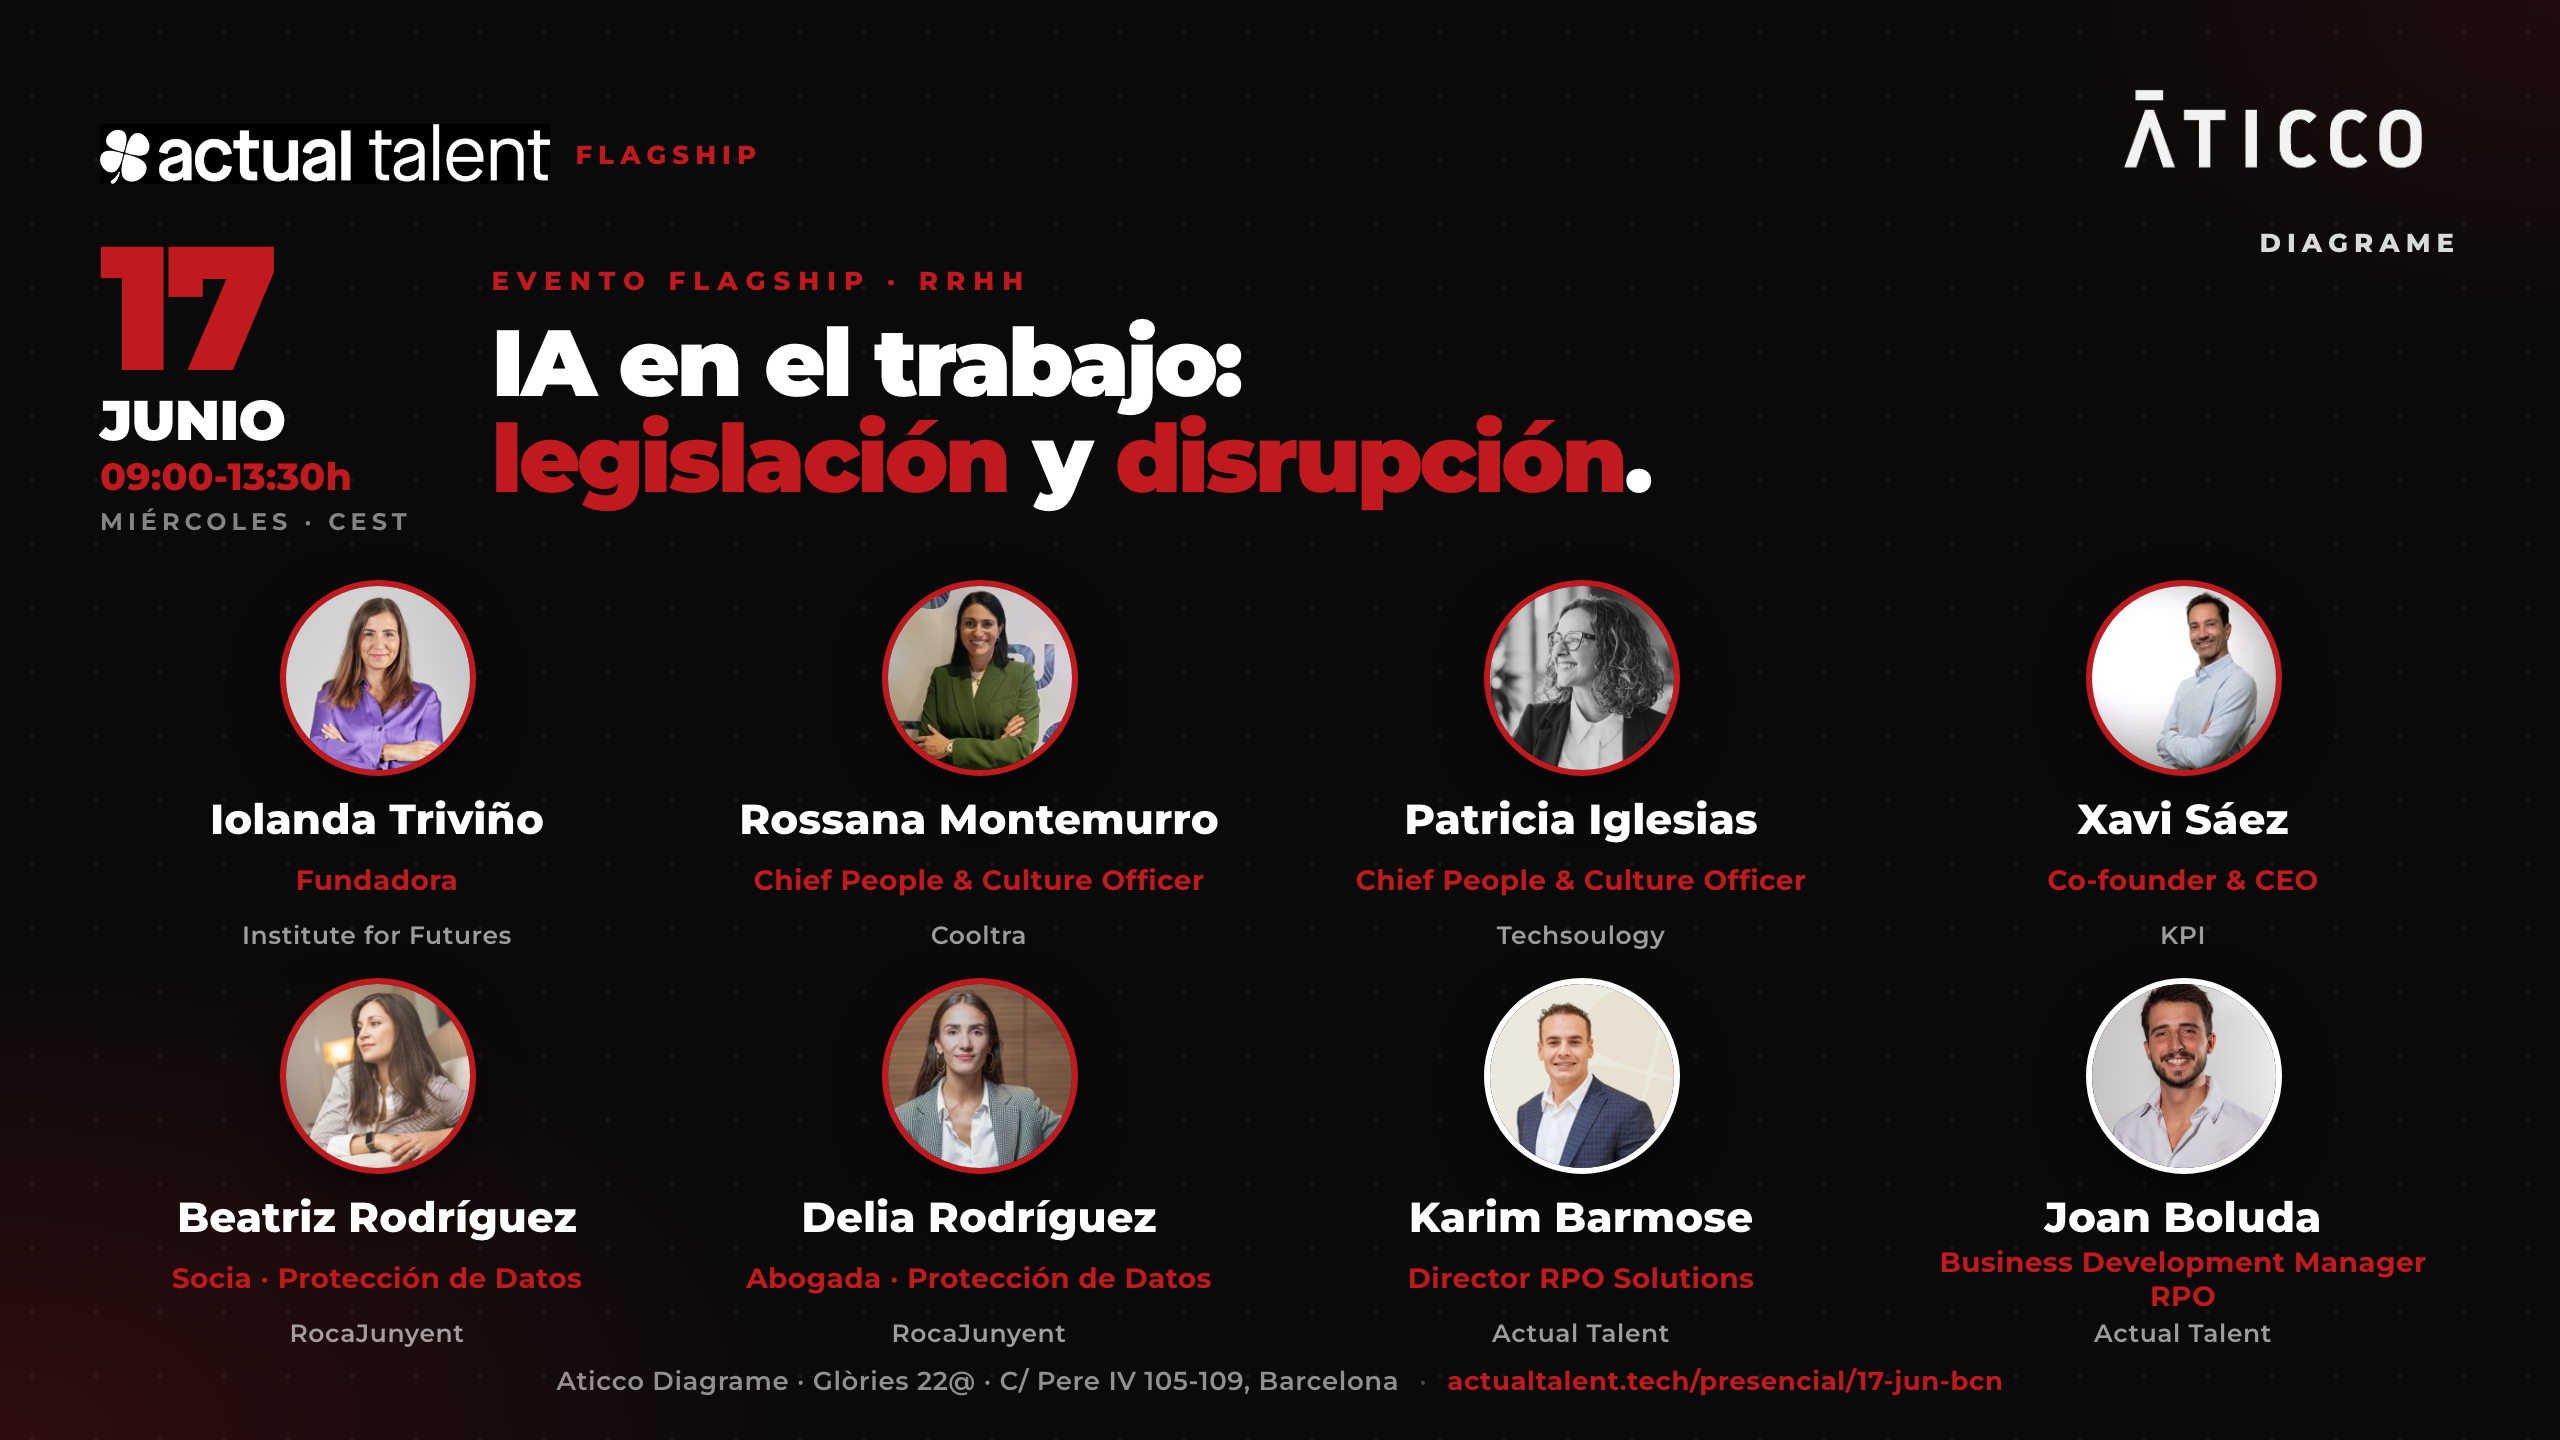
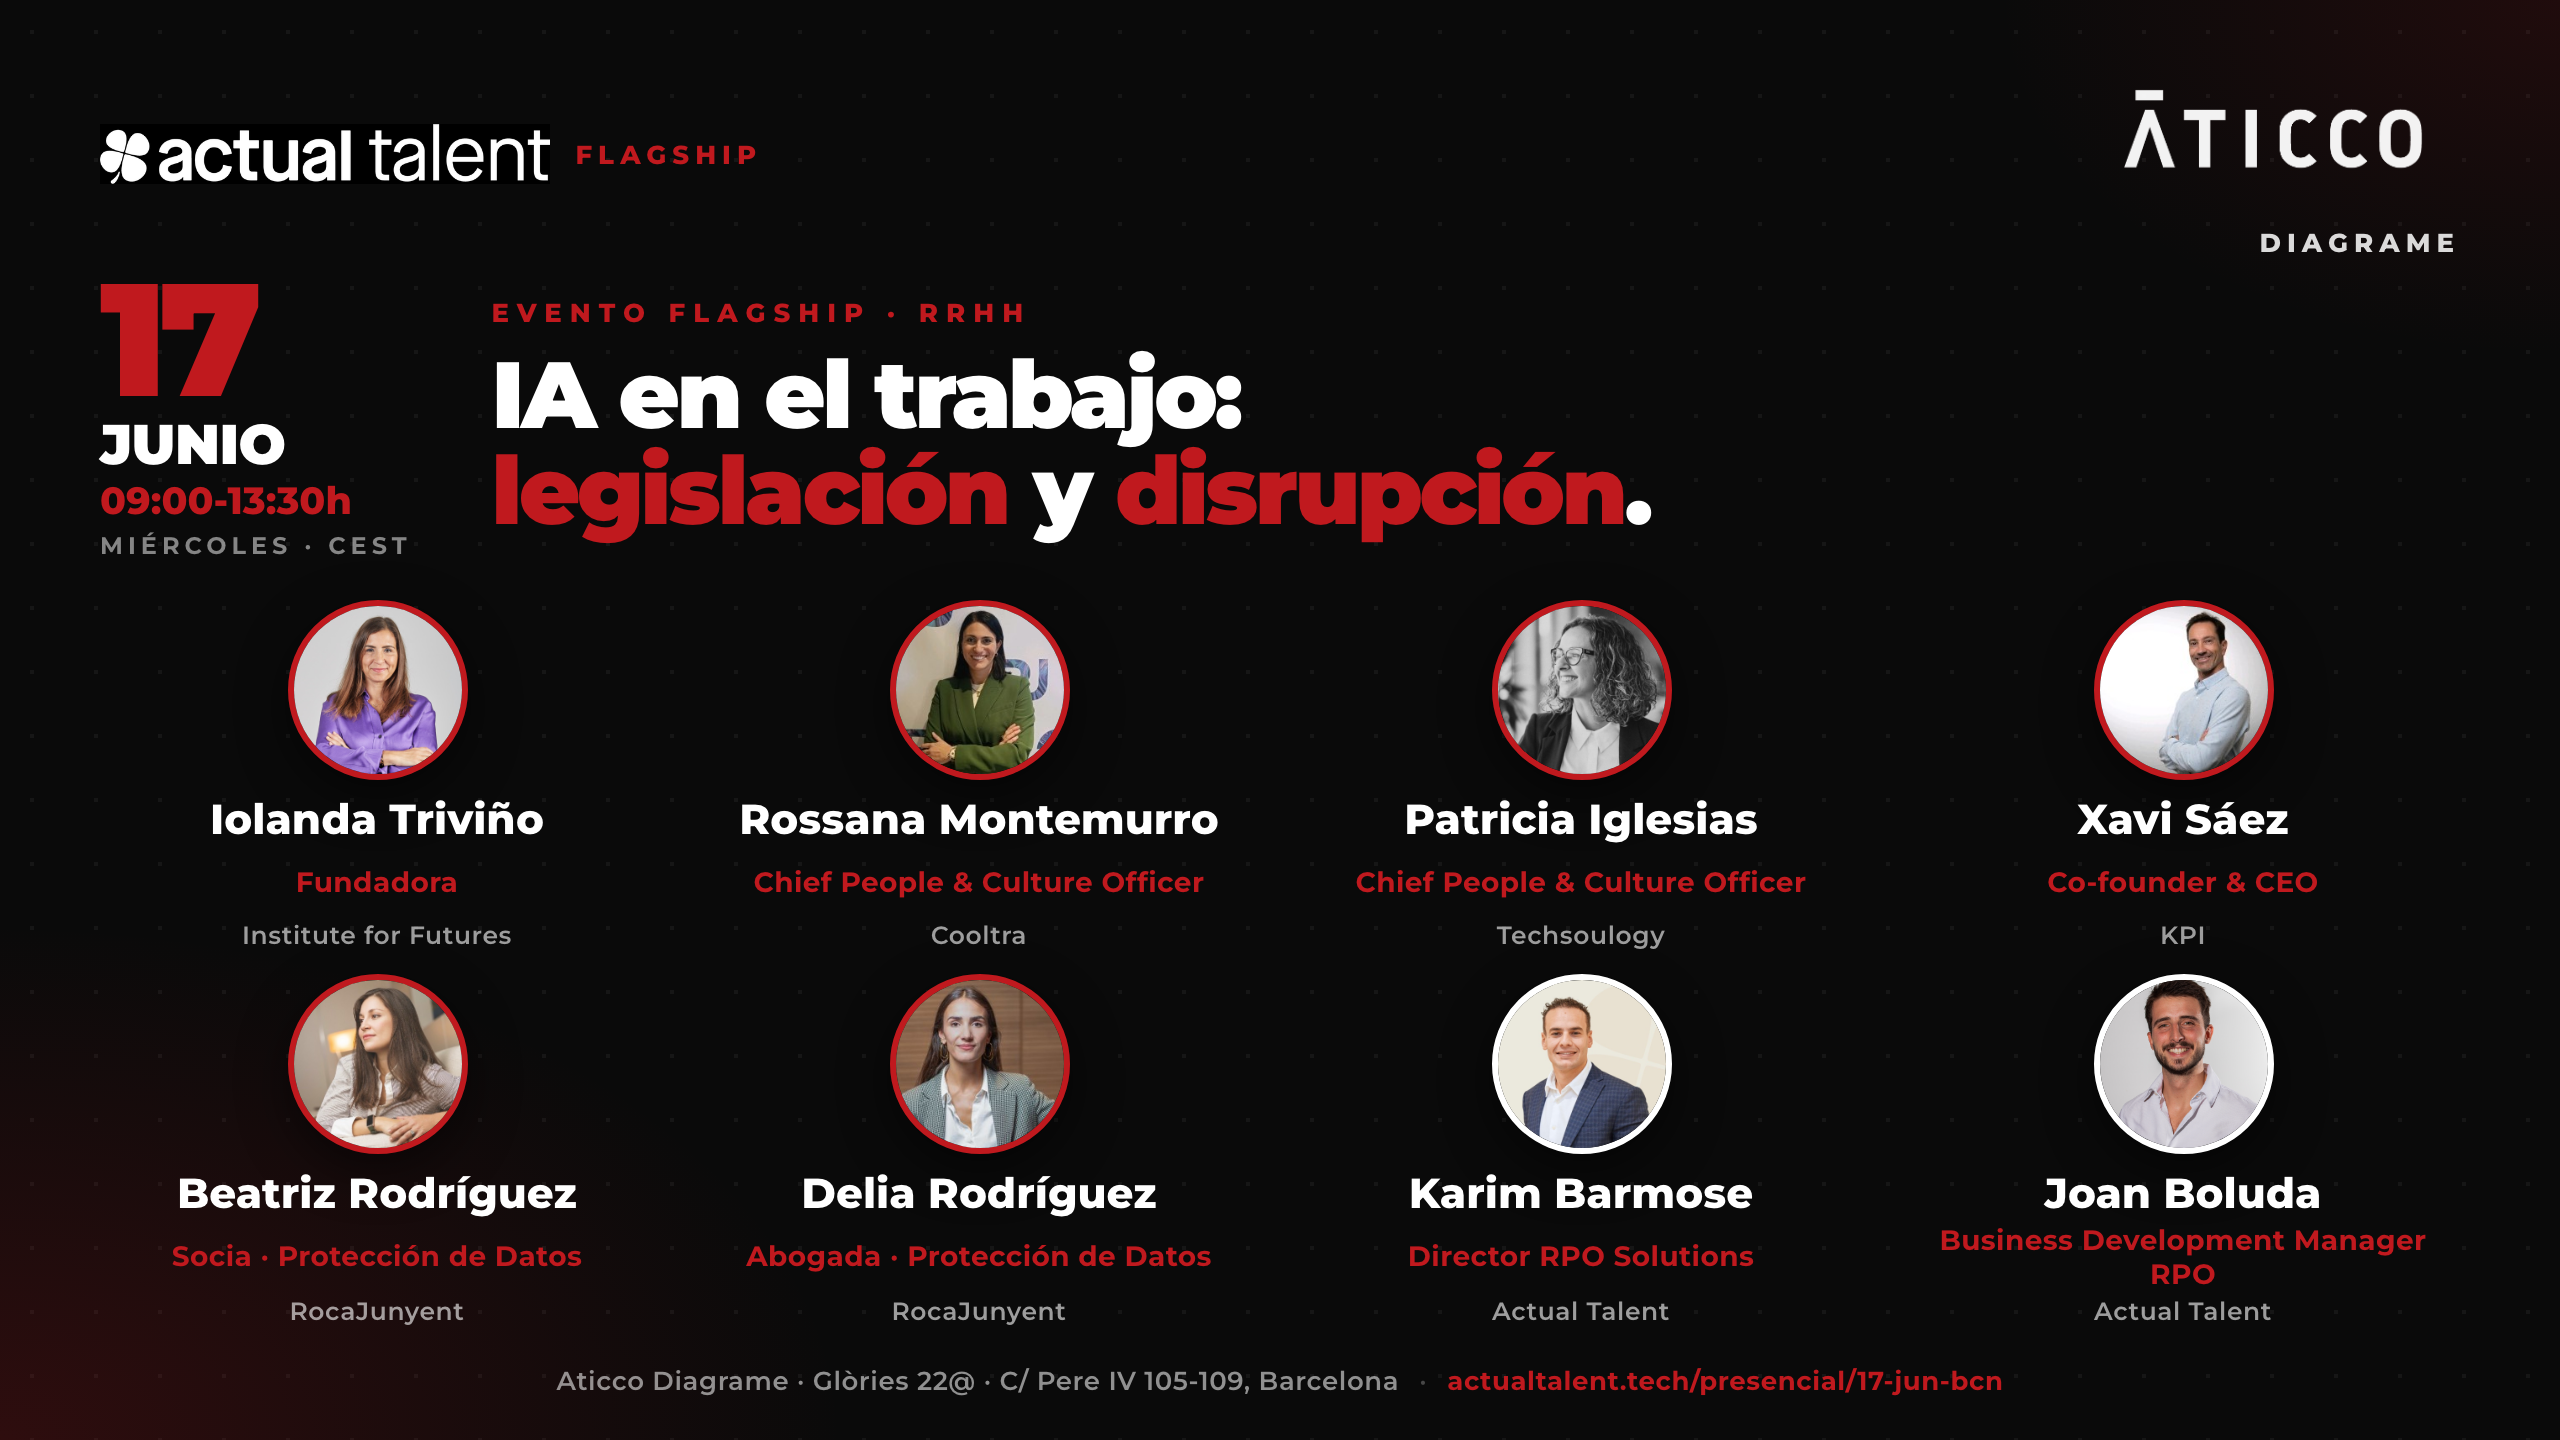
17-jun-bcn flyer LinkedIn: separa contenido del footer (centrado con holgura, fotos/fecha algo menores)

diff --git a/presencial/17-jun-bcn/flyer-linkedin/index.html b/presencial/17-jun-bcn/flyer-linkedin/index.html
@@ -16,7 +16,7 @@ body{font-family:'Montserrat',sans-serif;background:#000;-webkit-font-smoothing:
 .flyer::before{content:'';position:absolute;inset:0;background:
   radial-gradient(ellipse 60% 65% at 0% 100%,rgba(192,25,30,.20) 0%,transparent 55%),
   radial-gradient(ellipse 40% 45% at 100% 0%,rgba(192,25,30,.12) 0%,transparent 55%);pointer-events:none;z-index:1}
-.wrap{position:absolute;inset:0;z-index:5;padding:26px 50px 22px;display:flex;flex-direction:column;justify-content:space-between}
+.wrap{position:absolute;inset:0;z-index:5;padding:26px 50px 22px;display:flex;flex-direction:column}
 .topbar{display:flex;align-items:center;justify-content:space-between;flex:0 0 auto}
 .brand-mark{display:flex;align-items:center;gap:13px}
 .brand-logo{height:30px;width:auto;display:block}
@@ -24,10 +24,10 @@ body{font-family:'Montserrat',sans-serif;background:#000;-webkit-font-smoothing:
 .venue-credit{text-align:right;line-height:1.15}
 .venue-logo{height:80px;width:auto;filter:brightness(0) invert(1);opacity:.95;display:block;margin:0 0 8px auto}
 .venue-name{font-size:13px;font-weight:800;letter-spacing:3px;text-transform:uppercase;color:rgba(255,255,255,.85)}
-.main{flex:1 1 auto;display:flex;flex-direction:column;justify-content:center;gap:22px;min-height:0}
+.main{flex:1 1 auto;display:flex;flex-direction:column;justify-content:center;gap:20px;min-height:0}
 .hero{display:flex;gap:40px;align-items:center}
 .date-block{flex-shrink:0}
-.date-num{font-size:88px;font-weight:900;line-height:.8;color:var(--red);letter-spacing:-.05em}
+.date-num{font-size:80px;font-weight:900;line-height:.8;color:var(--red);letter-spacing:-.05em}
 .date-side{display:flex;flex-direction:column;gap:3px;margin-top:6px}
 .date-month{font-size:28px;font-weight:900;line-height:1;text-transform:uppercase;letter-spacing:-.01em}
 .date-time{font-size:19px;font-weight:800;color:var(--red)}
@@ -36,15 +36,15 @@ body{font-family:'Montserrat',sans-serif;background:#000;-webkit-font-smoothing:
 .eyebrow{font-size:13px;font-weight:800;letter-spacing:4px;text-transform:uppercase;color:var(--red);margin-bottom:10px}
 .title{font-size:47px;font-weight:900;line-height:1.02;letter-spacing:-.035em}
 .title .accent{color:var(--red)}
-.speakers{display:grid;grid-template-columns:repeat(4,1fr);gap:14px 24px}
+.speakers{display:grid;grid-template-columns:repeat(4,1fr);gap:12px 24px}
 .speaker{display:flex;flex-direction:column;align-items:center;text-align:center}
-.sp-photo{width:98px;height:98px;border-radius:50%;overflow:hidden;border:3px solid var(--red);box-shadow:0 8px 24px rgba(0,0,0,.5);margin-bottom:10px}
+.sp-photo{width:90px;height:90px;border-radius:50%;overflow:hidden;border:3px solid var(--red);box-shadow:0 8px 24px rgba(0,0,0,.5);margin-bottom:8px}
 .sp-photo.host{border-color:#fff}
 .sp-photo img{width:100%;height:100%;object-fit:cover;display:block}
 .sp-name{font-size:21px;font-weight:800;line-height:1.1;margin-bottom:3px}
 .sp-cargo{font-size:14px;font-weight:700;letter-spacing:.2px;color:var(--red);line-height:1.2;margin-bottom:2px;min-height:34px;display:flex;align-items:center;justify-content:center}
 .sp-org{font-size:12.5px;font-weight:600;letter-spacing:.3px;color:rgba(255,255,255,.6)}
-.footer{flex:0 0 auto;text-align:center;margin-top:18px}
+.footer{flex:0 0 auto;text-align:center;padding-top:10px}
 .footer .u{font-size:13px;font-weight:600;letter-spacing:.3px;color:rgba(255,255,255,.55)}
 .footer .u .link{color:var(--red);font-weight:700}.footer .u .sep{color:rgba(255,255,255,.25);margin:0 10px}
 </style>
